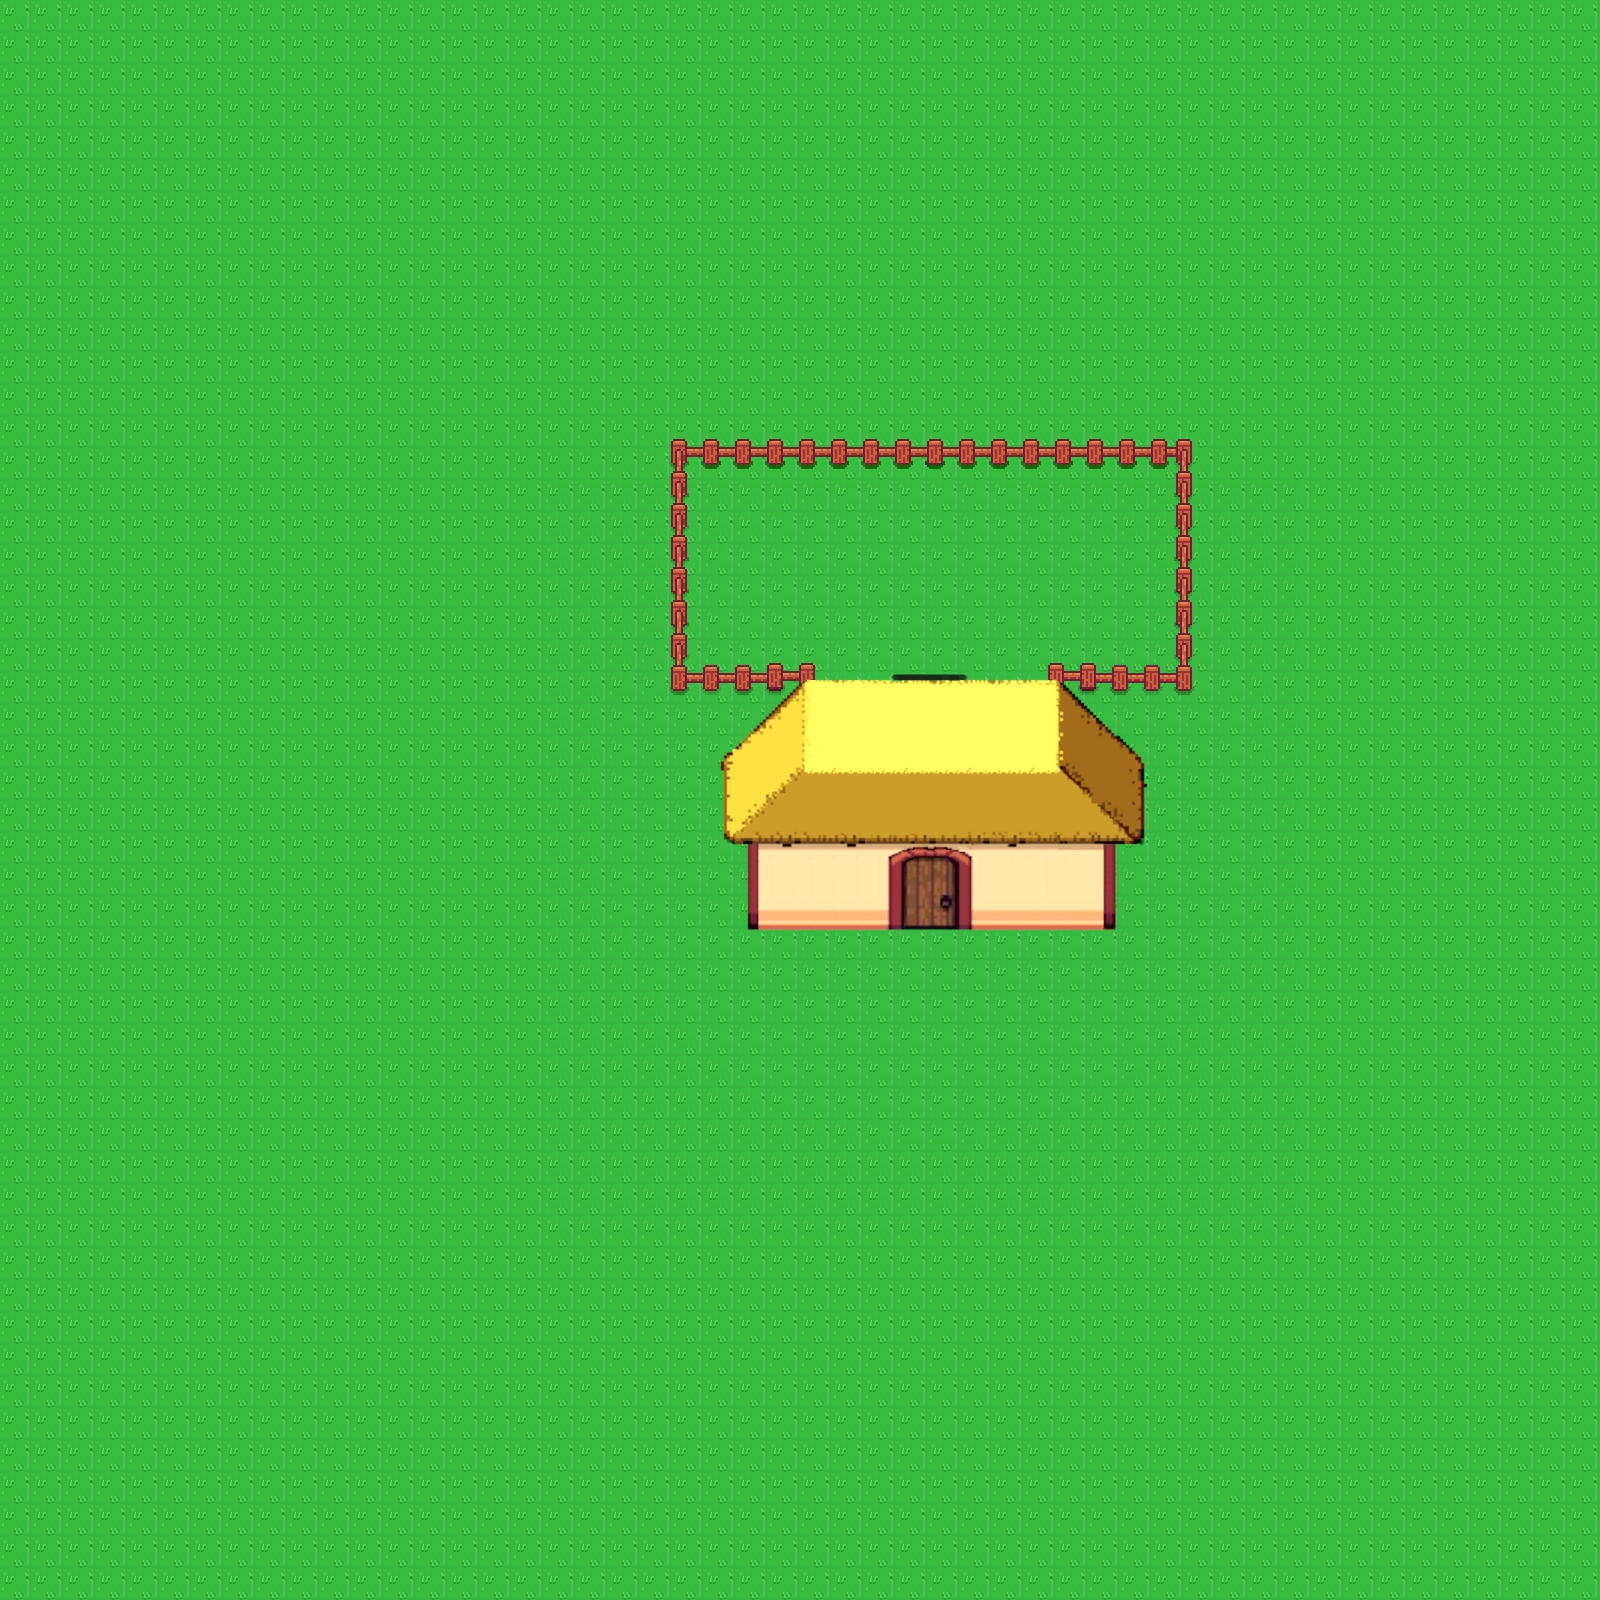
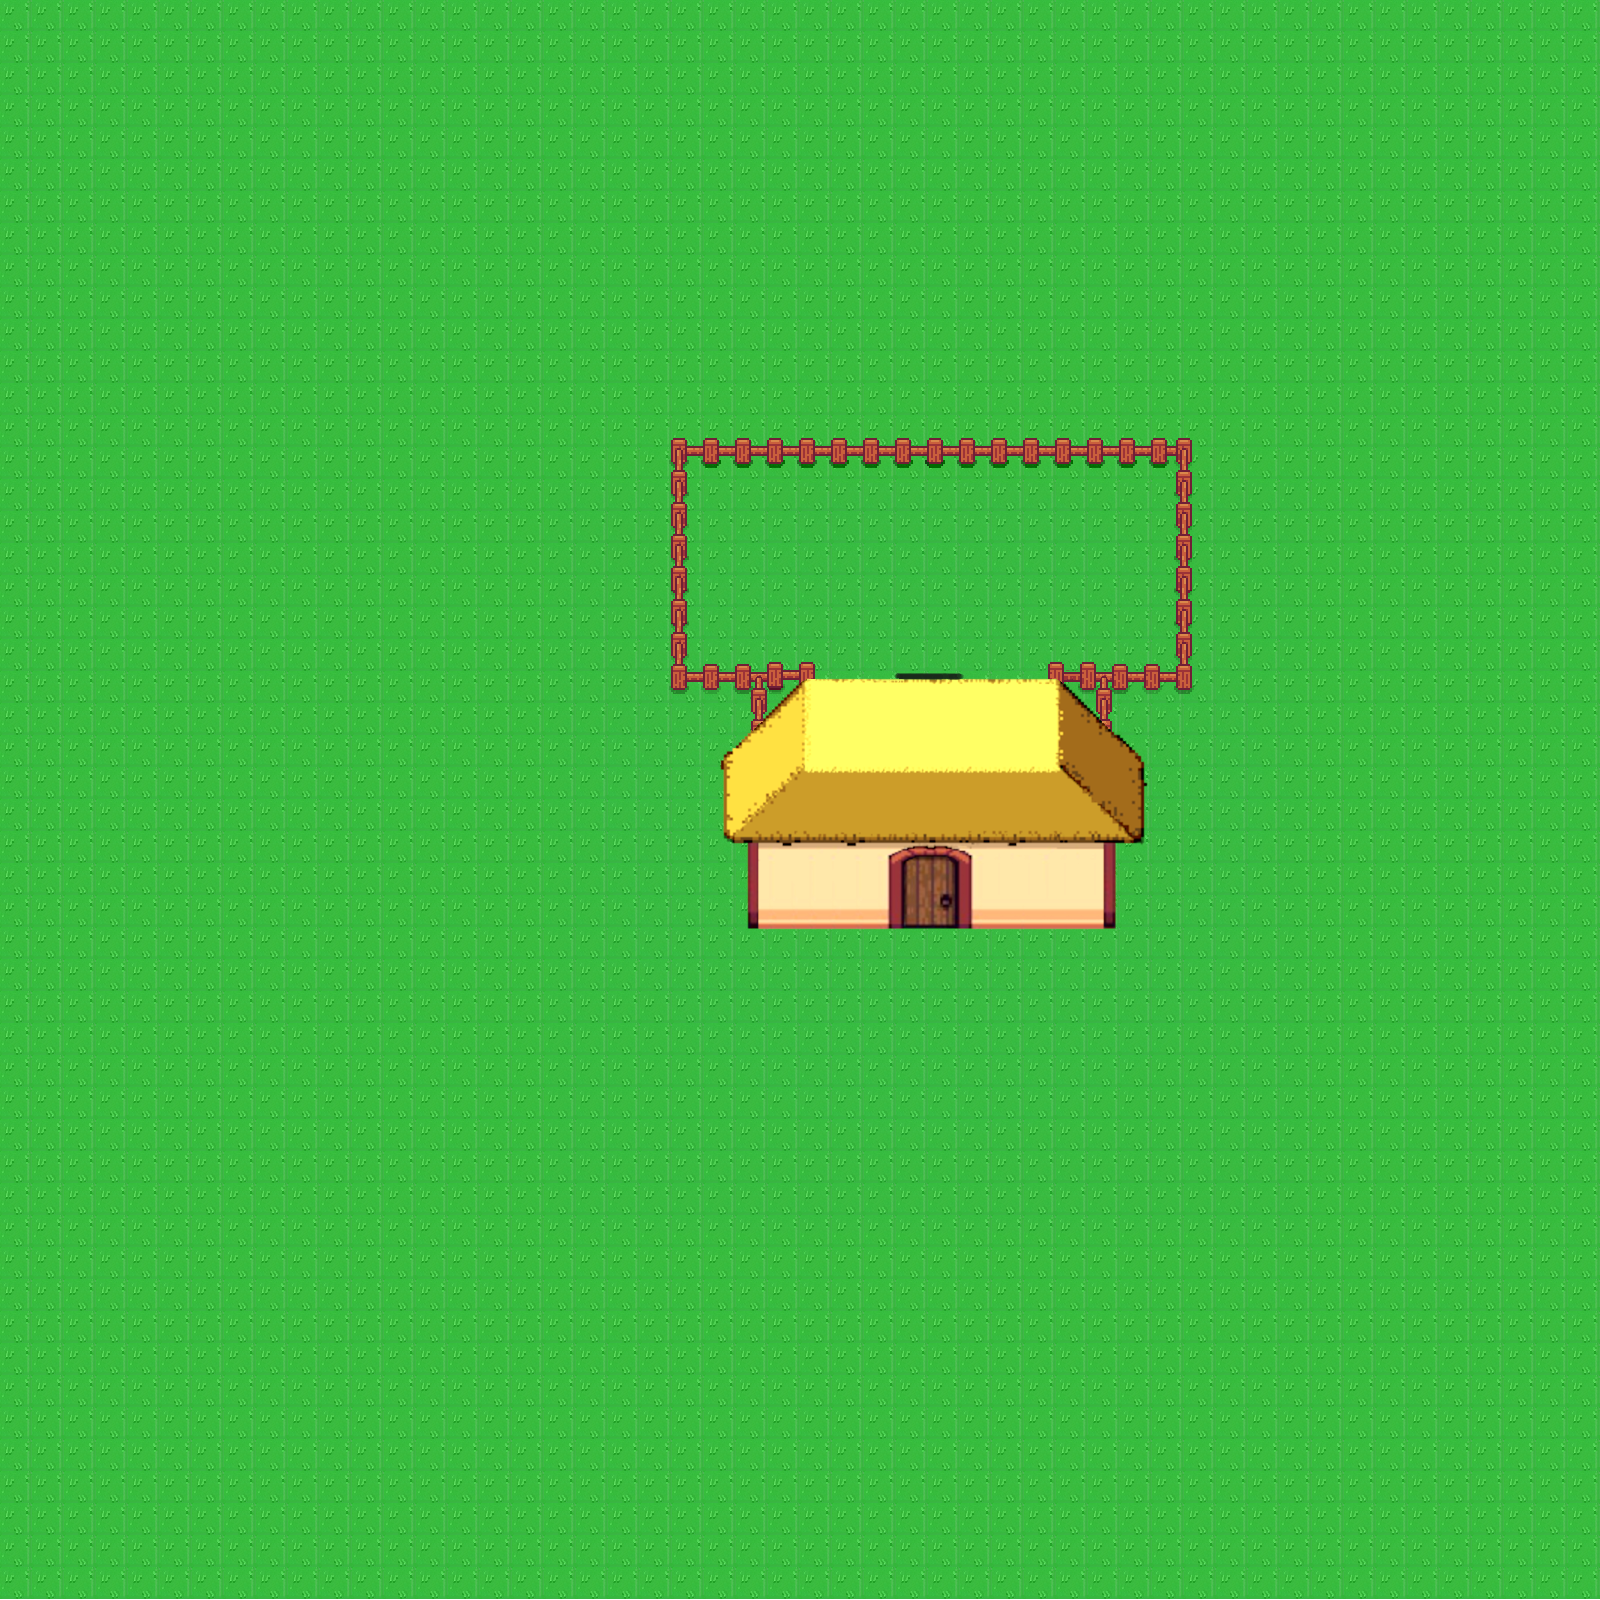
Add invisible walls to garden

diff --git a/Portfolio_Game_Core/Helpers/MapHelper.cs b/Portfolio_Game_Core/Helpers/MapHelper.cs
@@ -6,21 +6,21 @@ namespace Portfolio_Game_Core.Helpers;
 
 public static class MapHelper
 {
-    public static List<Wall> GetWallsSurroundingMap(Vector2 ScreenSize, int depth = 0)
+    public static List<Wall> GetWallsSurroundingMap(Vector2 ScreenSize, Vector2 origin = new (), int depth = 0)
     {
         int width = Wall.WallWidth;
         int height = Wall.WallHeight;
         List<Wall> walls = new List<Wall>();
-        for (int i = 1; i < ScreenSize.Y - height; i += height)
+        for (float i = 0 + origin.Y; i < ScreenSize.Y+origin.Y - height; i += height)
         {
-            walls.Add(new Wall(0, i, Direction.Right));
-            walls.Add(new Wall((int)(ScreenSize.X - width), i, Direction.Left));
+            walls.Add(new Wall((int)origin.X, (int)i, Direction.Right));
+            walls.Add(new Wall((int)(ScreenSize.X + origin.X - width), (int)i, Direction.Left));
         }
 
-        for (int i = 1; i < ScreenSize.X - width; i += width)
+        for (float i = 0 + origin.X; i < ScreenSize.X+origin.X - width; i += width)
         {
-            walls.Add(new Wall(i, 0, Direction.Down));
-            walls.Add(new Wall(i, (int)(ScreenSize.Y - height), Direction.Up));
+            walls.Add(new Wall((int)i, (int)origin.Y, Direction.Down));
+            walls.Add(new Wall((int)i, (int)(ScreenSize.Y + origin.Y - height), Direction.Up));
         }
 
         walls.Add(new Wall(0, 0, Direction.Neutral)); //top left corner
@@ -30,7 +30,6 @@ public static class MapHelper
             Direction.Neutral)); //bottom right corner 
         return walls;
     }
-
     public static List<Wall> MakeMapSmaller(Vector2 ScreenSize, int depthUp, int depthRight, int depthDown,
         int depthLeft)
     {
@@ -106,4 +105,15 @@ public static class MapHelper
 
         return walls;
     }
+
+    public static List<InvisibleWall> GetSurroundingInvisibleWalls(Vector2 origin, Vector2 size, float width=32)
+    {
+        List<InvisibleWall> walls = new();
+        walls.Add(new InvisibleWall(origin.X,origin.Y,size.X,width));
+        walls.Add(new InvisibleWall(origin.X,origin.Y+size.Y-width,size.X,width));
+        walls.Add(new InvisibleWall(origin.X,origin.Y,width,size.Y));
+        walls.Add(new InvisibleWall(origin.X+size.X - width,origin.Y,width,size.Y));
+        return walls;
+    }
+    
 }

diff --git a/Portfolio_Game_Core/Maps/Garden.cs b/Portfolio_Game_Core/Maps/Garden.cs
@@ -4,6 +4,7 @@ using Portfolio_Game_Core.Entities;
 using Portfolio_Game_Core.Entities.Graphical;
 using Portfolio_Game_Core.Entities.Items;
 using Portfolio_Game_Core.Helpers;
+using Portfolio_Game_Core.Interfaces;
 using Portfolio_Game_Core.Services;
 
 namespace Portfolio_Game_Core.Maps;
@@ -19,7 +20,9 @@ public class Garden:Map
         SeedObjects();
         SeedStartText();
         SeedWalls();
+        SeedTopGraphics();
     }
+
 
     public override  void SeedNextMaps()
     {
@@ -48,16 +51,33 @@ public class Garden:Map
 
     protected override void SeedWalls()
     {
+        int wallWidth = 15;
+        Vector2 fenceOrigin = new(671, 440);
+        Vector2 fenceSize = new(522,240);
+        int gapMargin = 30;
+        Objects.Add(new InvisibleWall(fenceOrigin.X,fenceOrigin.Y,fenceSize.X,wallWidth));
+        Objects.Add(new InvisibleWall(fenceOrigin.X,fenceOrigin.Y+fenceSize.Y-wallWidth,fenceSize.X/2-gapMargin/2,wallWidth));
+        Objects.Add(new InvisibleWall(fenceOrigin.X + fenceSize.X/2+gapMargin,fenceOrigin.Y+fenceSize.Y-wallWidth,fenceSize.X/2-gapMargin/2,wallWidth));
+        Objects.Add(new InvisibleWall(fenceOrigin.X,fenceOrigin.Y,wallWidth,fenceSize.Y));
+        Objects.Add(new InvisibleWall(fenceOrigin.X+fenceSize.X - wallWidth,fenceOrigin.Y,wallWidth,fenceSize.Y));
+        Vector2 houseOrigin = new(740, 694);
+        Vector2 houseSize = new(380,235);
+        Objects.AddRange(MapHelper.GetSurroundingInvisibleWalls(houseOrigin,houseSize,20));
+    }
+    
+    private void SeedTopGraphics()
+    {
+        GraphicTopObjects.Add( new TopGraphic(723,681,419,163,"houseroof"));
     }
     public override void GetEntryLocation(Direction entryDirection)
     {
         switch (entryDirection)
         {
             case Direction.Down:
-                EntryLocation = new Vector2(900,940);
+                EntryLocation = new Vector2(920,930);
                 break;
             case Direction.Up:
-                EntryLocation = new Vector2(900 , 620);
+                EntryLocation = new Vector2(920 , 600);
                 break;
         } 
     }

diff --git a/Portfolio_Game/Game1.cs b/Portfolio_Game/Game1.cs
@@ -73,8 +73,11 @@ public class Game1 : Game
         InventoryWindow.Texture = Content.Load<Texture2D>("inventorywindow");
         Tankie.Texture = Content.Load<Texture2D>("tank");
         Text.Texture = Content.Load<Texture2D>("font2");
+        foreach (TopGraphic graphicTopObject in _gameService.CurrentMap.GraphicTopObjects)
+        {
+           graphicTopObject.Texture = Content.Load<Texture2D>(graphicTopObject.GraphicText);
+        }
     }
-
     protected override void Update(GameTime gameTime)
     {
         var kstate = Keyboard.GetState();
@@ -185,6 +188,7 @@ public class Game1 : Game
         DrawGraphicObjects();
         DrawGameObjects();
         DrawObject(_gameService._playerOne);
+        DrawTopGraphicObjects();
         _spriteBatch.End();
         _spriteBatch.Begin();
         DrawWindows();
@@ -208,7 +212,13 @@ public class Game1 : Game
             DrawObject(graphicObject);
         }
     }
-
+    private void DrawTopGraphicObjects()
+    {
+        foreach (var graphicTopObject in _gameService.CurrentMap.GraphicTopObjects)
+        {
+            DrawObject(graphicTopObject);
+        }
+    }
     private void DrawMap(Map map)
     {
         _spriteBatch.Draw(map.Texture
@@ -259,7 +269,13 @@ public class Game1 : Game
             DrawObject(gameObject);
         }
     }
-
+    private void DrawObject(TopGraphic topGraphic)
+    {
+        _spriteBatch.Draw(topGraphic.Texture
+            , new Vector2(topGraphic.PositionX, topGraphic.PositionY)
+            , topGraphic.CurrentSprite
+            , Color.White);
+    }
     private void DrawObject(GameObject gameObject)
     {
         if (gameObject is not IVisible visible) return;
@@ -339,7 +355,8 @@ public class Game1 : Game
         _gameService._playerOne.PlayerState = newPlayerState;
         if (newPlayerState != PlayerState.Neutral)
         {
-            _gameService.ChangeMapIfNecessary(newPlayerState);
+            bool isNewMap = _gameService.ChangeMapIfNecessary(newPlayerState);
+            if(isNewMap) LoadContent();
         }
     }
 

diff --git a/Portfolio_Game_Core/Maps/Map.cs b/Portfolio_Game_Core/Maps/Map.cs
@@ -14,6 +14,7 @@ public abstract class Map
     public Dictionary<Vector2, (Map?,Direction)> MapExits = new();
     public List<GameObject> Objects { get; set; }
     public List<GameObject> GraphicObjects { get; set; }
+    public List<TopGraphic> GraphicTopObjects { get; set; }
     public List<Window> Windows { get; set; }
     public List<IInteractable> Interactables { get; set; }
 
@@ -28,6 +29,7 @@ public abstract class Map
         ScreenSize = new Vector2(screenWidth, screenHeight);
         Objects = new List<GameObject>();
         GraphicObjects = new List<GameObject>();
+        GraphicTopObjects = new List<TopGraphic>();
         Windows = new List<Window>();
         Interactables = new List<IInteractable>();
         _windowCreator = new WindowCreator(screenWidth, screenHeight);

diff --git a/Portfolio_Game_Core/Services/GameService.cs b/Portfolio_Game_Core/Services/GameService.cs
@@ -181,7 +181,7 @@ public class GameService
         InventoryWindow.Inventory.Add(item);
     }
 
-    public void ChangeMapIfNecessary(PlayerState playerState)
+    public bool ChangeMapIfNecessary(PlayerState playerState)
     {
         int precisionX = playerState is PlayerState.Up or PlayerState.Down ? 25 : 5; 
         int precisionY = playerState is PlayerState.Left or PlayerState.Right ? 25 : 5; 
@@ -194,8 +194,10 @@ public class GameService
                 CurrentMap.GetEntryLocation(lastMap.MapExits[exit].Item2);
                 _playerOne.PositionX = CurrentMap.EntryLocation.X;
                 _playerOne.PositionY = CurrentMap.EntryLocation.Y;
+                return true;
             }
-            
         }
+
+        return false;
     }
 }

diff --git a/Portfolio_Game_Core/Entities/Graphical/TopGraphic.cs b/Portfolio_Game_Core/Entities/Graphical/TopGraphic.cs
@@ -1,0 +1,20 @@
+using Microsoft.Xna.Framework;
+using Microsoft.Xna.Framework.Graphics;
+using Portfolio_Game_Core.Interfaces;
+
+namespace Portfolio_Game_Core.Entities.Graphical;
+
+public class TopGraphic:GameObject
+{
+    public Texture2D Texture { get; set; } 
+    public string GraphicText { get; set; }
+    public TopGraphic(int x, int y, int width, int height, string graphicText)
+    {
+        PositionX = x;
+        PositionY = y;
+        Width = width;
+        Height = height;
+        GraphicText = graphicText;
+        CurrentSprite = new Rectangle(0,0,Width,Height);
+    }
+}

diff --git a/Portfolio_Game_Core/Entities/InvisibleWall.cs b/Portfolio_Game_Core/Entities/InvisibleWall.cs
@@ -1,0 +1,22 @@
+using Portfolio_Game_Core.Font;
+using Portfolio_Game_Core.Interfaces;
+
+namespace Portfolio_Game_Core.Entities;
+
+public class InvisibleWall:GameObject
+{
+    public InvisibleWall(int x, int y, int width = 32, int height = 32)
+    {
+        PositionX = x;
+        PositionY = y;
+        Width = width;
+        Height = height;
+    }
+    public InvisibleWall(float x, float y, float width = 32, float height = 32)
+    {
+        PositionX = x;
+        PositionY = y;
+        Width = (int)width;
+        Height = (int)height;
+    }
+}

diff --git a/Portfolio_Game_Core/Maps/FirstMap.cs b/Portfolio_Game_Core/Maps/FirstMap.cs
@@ -90,7 +90,7 @@ public class FirstMap:Map
         switch (entryDirection)
         {
             case Direction.Up:
-                EntryLocation = new Vector2((int)(ScreenSize.X / 2 - (float)Player.PlayerWidth/2), ScreenSize.Y - 25);
+                EntryLocation = new Vector2((int)(ScreenSize.X / 2 - (float)Player.PlayerWidth/2), ScreenSize.Y - 40);
                 break;
             case Direction.Down:
                 EntryLocation = new Vector2((int)(ScreenSize.X / 2 - (float)Player.PlayerWidth/2), 10);
